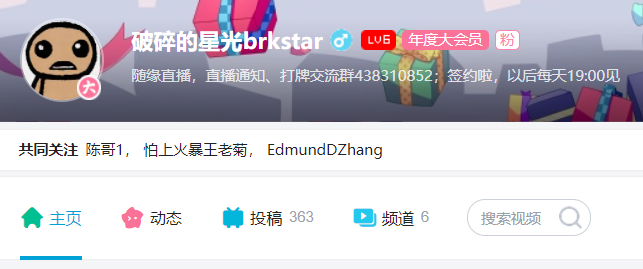
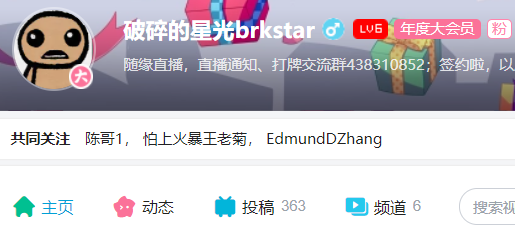
B站共同关注快速查看 1.2.2.20210626
* 脚本：优化 URL 匹配。
* 功能实现：无共同关注时提示信息。
* UI：优化文字排版。

diff --git a/script/BilibiliSameFollowing/BilibiliSameFollowing.js b/script/BilibiliSameFollowing/BilibiliSameFollowing.js
@@ -1,6 +1,6 @@
 // ==UserScript==
 // @name            B站共同关注快速查看
-// @version         1.2.1.20210626
+// @version         1.2.2.20210626
 // @namespace       laster2800
 // @author          Laster2800
 // @description     快速查看与特定用户的共同关注（视频播放页、动态页、用户空间）
@@ -11,7 +11,6 @@
 // @include         *://www.bilibili.com/*
 // @include         *://t.bilibili.com/*
 // @include         *://space.bilibili.com/*
-// @exclude         *://message.bilibili.com/pages/nav/index_new_pc_sync
 // @exclude         *://t.bilibili.com/h5/dynamic/specification
 // @exclude         *://www.bilibili.com/page-proxy/game-nav.html
 // @exclude         /.*:\/\/.*:\/\/.*/
@@ -34,6 +33,7 @@
     id: 'gm428453',
     config: {
       failMessage: true,
+      withoutSameMessage: true,
       dispInText: false,
       commonCard: true,
       extendedCard: true,
@@ -41,16 +41,17 @@
     },
     configMap: {
       failMessage: { name: '查询失败时提示信息' },
+      withoutSameMessage: { name: '无共同关注时提示信息' },
       dispInText: { name: '以纯文本形式显示共同关注' },
       commonCard: { name: '在常规用户卡片中快速查看' },
       extendedCard: { name: '在扩展用户卡片中快速查看' },
       userSpace: { name: '在用户空间中快速查看' },
     },
     regex: {
-      page_videoNormalMode: /\.com\/video(?=\/|$)/,
-      page_videoWatchlaterMode: /\.com\/medialist\/play\/watchlater(?=\/|$)/,
-      page_dynamic: /t\.bilibili\.com(?=\/|$)/,
-      page_space: /space\.bilibili\.com\/\d+(?=\/|$)/,
+      page_videoNormalMode: /\.com\/video(?=[/?#]|$)/,
+      page_videoWatchlaterMode: /\.com\/medialist\/play\/watchlater(?=[/?#]|$)/,
+      page_dynamic: /t\.bilibili\.com(?=[/?#]|$)/,
+      page_space: /space\.bilibili\.com\/\d+(?=[/?#]|$)/,
     }
   }
 
@@ -116,8 +117,9 @@
          * @returns {string} UID
          */
         getUidFromUrl(url) {
-          let uid = null
-          const parts = url.split('/')
+          let uid = ''
+          // URL 先「?」后「#」，先判断「?」运算量期望稍低一点
+          const parts = url.split('?')[0].split('#')[0].split('/')
           while (parts.length > 0) {
             const part = parts.pop()
             if (part && !isNaN(part)) {
@@ -191,48 +193,56 @@
      * @param {string} [config.className=''] 显示元素的类名
      */
     async generalLogic(config) {
-      const resp = await api.web.request({
-        method: 'GET',
-        url: `https://api.bilibili.com/x/relation/same/followings?vmid=${config.uid}`,
-      })
-      const json = JSON.parse(resp.responseText)
-      if (json.code == 0) {
-        const data = json.data
-        const sameFollowings = []
-        if (gm.config.dispInText) {
-          for (const item of data.list) {
-            sameFollowings.push(item.uname)
-          }
-        } else {
-          for (const item of data.list) {
-            sameFollowings.push([item.uname, `https://space.bilibili.com/${item.mid}`])
-          }
-        }
-        if (sameFollowings.length > 0) {
-          const sf = config.target.appendChild(document.createElement('div'))
-          sf.className = config.className || ''
+      try {
+        const resp = await api.web.request({
+          method: 'GET',
+          url: `https://api.bilibili.com/x/relation/same/followings?vmid=${config.uid}`,
+        })
+        const json = JSON.parse(resp.responseText)
+        if (json.code == 0) {
+          const data = json.data
+          const sameFollowings = []
           if (gm.config.dispInText) {
-            sf.innerHTML = `<div>共同关注</div><div class="same-following">${sameFollowings.join('，&nbsp;')}</div>`
-          } else {
-            let innerHTML = '<div>共同关注</div>'
-            for (const item of sameFollowings) {
-              innerHTML += `<div><a href="${item[1]}" target="_blank" class="same-following">${item[0]}</a></div>，&nbsp;`
+            for (const item of data.list) {
+              sameFollowings.push(item.uname)
             }
-            sf.innerHTML = innerHTML.slice(0, -7)
+          } else {
+            for (const item of data.list) {
+              sameFollowings.push([item.uname, `https://space.bilibili.com/${item.mid}`])
+            }
+          }
+          if (sameFollowings.length > 0 || gm.config.withoutSameMessage) {
+            const sf = config.target.appendChild(document.createElement('div'))
+            sf.className = config.className || ''
+            if (sameFollowings.length > 0) {
+              if (gm.config.dispInText) {
+                sf.innerHTML = `<div>共同关注</div><div class="same-following">${sameFollowings.join('，&nbsp;')}</div>`
+              } else {
+                let innerHTML = '<div>共同关注</div><div>'
+                for (const item of sameFollowings) {
+                  innerHTML += `<a href="${item[1]}" target="_blank" class="same-following">${item[0]}</a><span>，&nbsp;</span>`
+                }
+                sf.innerHTML = innerHTML.slice(0, -'<span>，&nbsp;</span>'.length) + '</div>'
+              }
+            } else if (gm.config.withoutSameMessage) {
+              sf.innerHTML = '<div>共同关注</div><div class="same-following">[ 无 ]</div>'
+            }
+          }
+        } else {
+          if (gm.config.failMessage && json.message) {
+            const sf = config.target.appendChild(document.createElement('div'))
+            sf.className = config.className || ''
+            sf.innerHTML = `<div>共同关注</div><div>[ ${json.message} ]</div>`
+          }
+          const msg = [json.code, json.message]
+          if (json.code > 0) {
+            api.logger.info(msg)
+          } else {
+            throw msg
           }
         }
-      } else {
-        if (gm.config.failMessage && json.message) {
-          const sf = config.target.appendChild(document.createElement('div'))
-          sf.className = config.className || ''
-          sf.innerHTML = `<div>共同关注</div><div>${json.message}</div>`
-        }
-        const msg = [json.code, json.message]
-        if (json.code > 0) {
-          api.logger.info(msg)
-        } else {
-          throw msg
-        }
+      } catch (e) {
+        api.logger.error(e)
       }
     }
 
@@ -251,6 +261,7 @@
           padding: 0;
           border: 0;
           vertical-align: baseline;
+          white-space: pre-wrap;
           word-break: break-word;
         }
         .${gm.id} a.same-following:hover {
@@ -276,7 +287,7 @@
         }
         .${gm.id}.space-same-followings > :first-child {
           font-weight: bold;
-          padding-right: 0.5em;
+          padding-right: 1em;
         }
       `)
     }
@@ -333,7 +344,7 @@
       // 用户空间
       if (gm.config.userSpace) {
         webpage.generalLogic({
-          uid: webpage.method.getUidFromUrl(location.href),
+          uid: webpage.method.getUidFromUrl(location.pathname),
           target: await api.wait.waitForElementLoaded('.h .wrapper'),
           className: `${gm.id} space-same-followings`,
         })

diff --git a/script/BilibiliSameFollowing/changelog.md b/script/BilibiliSameFollowing/changelog.md
@@ -5,8 +5,11 @@
 ## V1.2
 
 1. 脚本：大幅优化用户配置方式，并优化配置项分类及功能。
-2. 代码：不算是重构的重构。
+2. 脚本：优化 URL 匹配。
 3. 功能实现：以纯文本形式显示共同关注（共同关注改为默认以可点击形式展示）。
+4. 功能实现：无共同关注时提示信息。
+5. UI：优化文字排版。
+6. 代码：不算是重构的重构。
 
 ## V1.1
 
